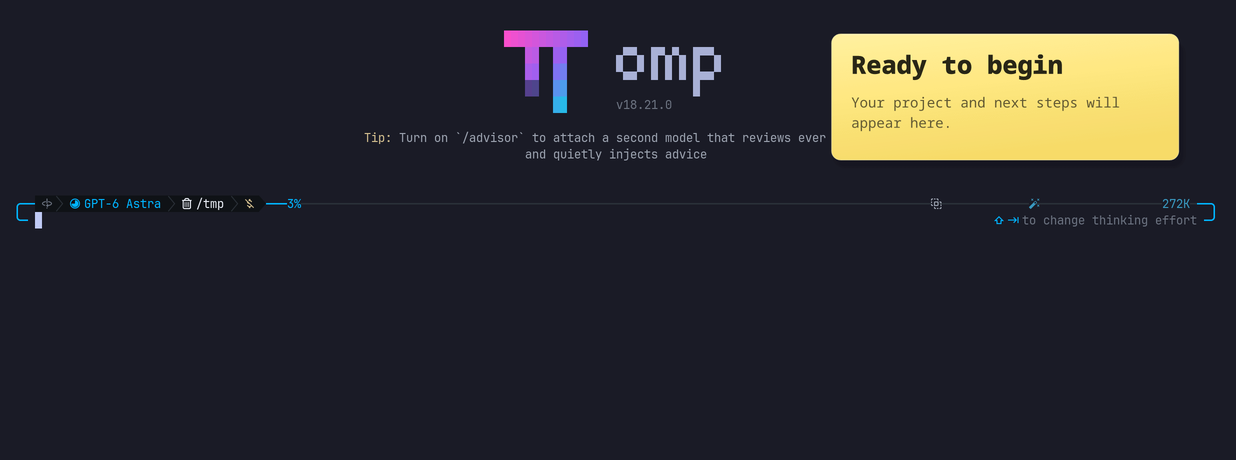
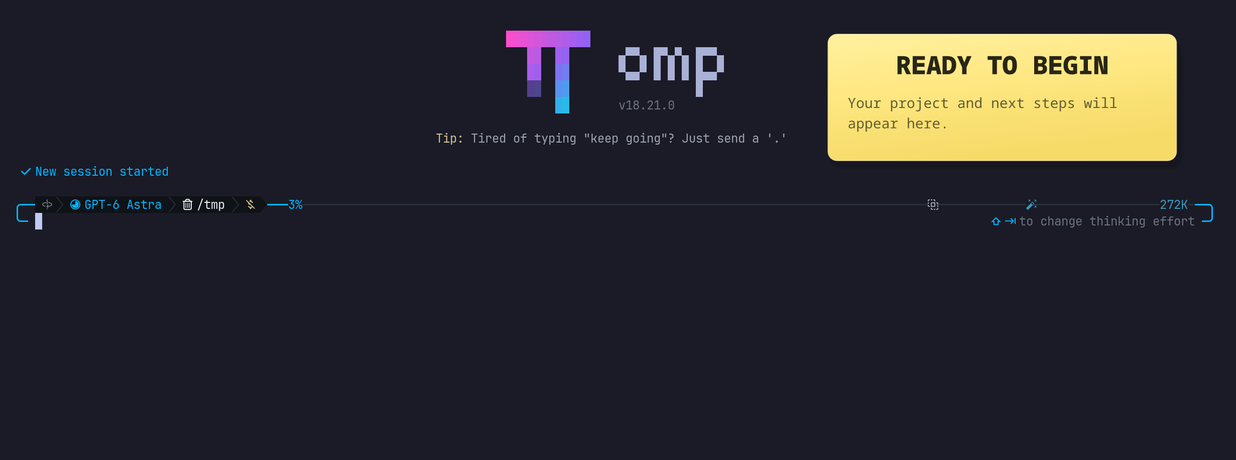
fix: center uppercase sticky note headlines
- Improve distance readability in native graphics and ANSI rendering without altering task layout.
- Cover headline casing and alignment in the host-backed rendering contract.
- Refresh screenshots and publish version 1.1.1.

diff --git a/test/fixtures/note-contract.ts b/test/fixtures/note-contract.ts
@@ -15,14 +15,18 @@ export default async function noteContract(pi: ExtensionAPI): Promise<void> {
   }
   note.update({ title: "Release dashboard", tasks: [{ text: "Verify checkout", done: false }] });
   let text = note.render(38).map(cleanLabel).join("\n");
-  assert.match(text, /Release dashboard/);
+  assert.match(text, /RELEASE DASHBOARD/);
+  const heading = note.render(38).find(row => row.includes("RELEASE DASHBOARD"));
+  assert.ok(heading);
+  const [before, after] = heading.split("RELEASE DASHBOARD");
+  assert.ok(Math.abs(visibleWidth(before) - visibleWidth(after)) <= 2, "Headline must be centered, allowing the one-column shadow");
   assert.match(text, /\[ \] Verify checkout/);
   note.update({ title: "Release dashboard", tasks: [{ text: "Verify checkout", done: true }] });
   text = note.render(38).map(cleanLabel).join("\n");
   assert.match(text, /\[x\] Verify checkout/);
   note.update({ title: "Release dashboard", tasks: [] });
   text = note.render(38).map(cleanLabel).join("\n");
-  assert.match(text, /Release dashboard/);
+  assert.match(text, /RELEASE DASHBOARD/);
   assert.doesNotMatch(text, /\[[ x]\]/, "Clearing tasks must restore the empty state, not a blank checkbox");
   note.dispose();
 

diff --git a/src/paper.ts b/src/paper.ts
@@ -27,8 +27,10 @@ export function paperSvg(note: Note): { svg: string; width: number; height: numb
   const text = (label: string, x: number, y: number, size: number, weight: number, color = "#292616") => {
     ink.push(`<text x="${x}" y="${y}" font-size="${size}" font-weight="${weight}" fill="${color}">${xml(label)}</text>`);
   };
-  const title = lines(note.title, 36, 436);
-  title.forEach((line, index) => text(line, 36, 62 + index * 44, 36, 800));
+  const title = lines(note.title.toUpperCase(), 36, 436);
+  ink.push('<g text-anchor="middle">');
+  title.forEach((line, index) => text(line, 256, 62 + index * 44, 36, 800));
+  ink.push("</g>");
   let y = 62 + (title.length - 1) * 44 + 48;
   if (note.tasks.length === 0) {
     const welcome = lines(WELCOME, 20, 436);

diff --git a/src/note.ts b/src/note.ts
@@ -223,7 +223,9 @@ export class StickyNote implements Component {
       ? PAPER + (top ? "╭" : "╰") + "─".repeat(cardWidth - 2) + (top ? "╮" : "╯") + RESET + " ".repeat(shadow)
       : row("");
     const rows = [edge(true)];
-    for (const line of wrapLabel(this.#note.title, 2, inner)) rows.push(row(line, true));
+    for (const line of wrapLabel(this.#note.title.toUpperCase(), 2, inner)) {
+      rows.push(row(" ".repeat(Math.max(0, Math.floor((inner - visibleWidth(line)) / 2))) + line, true));
+    }
     rows.push(row(""));
     if (this.#note.tasks.length === 0) {
       for (const line of wrapLabel(WELCOME, 2, inner)) rows.push(row(line));

diff --git a/README.md b/README.md
@@ -33,7 +33,8 @@ Remove it with `omp plugin uninstall omp-stickynote`, then restart OMP.
 ## How it works
 
 - **Automatic by default.** Uses the session title and follows the first three unfinished OMP todos in plan order. Once everything is complete, shows up to three completed tasks.
-- **A clean welcome.** Before a session title or tasks exist, shows **Ready to begin** and “Your project and next steps will appear here.” No working-directory name or automatic empty checkbox.
+- **A clean welcome.** Before a session title or tasks exist, shows **READY TO BEGIN** and “Your project and next steps will appear here.” No working-directory name or automatic empty checkbox.
+- **Readable at a glance.** Headlines are centered and displayed in all caps without changing the stored project title. Task checkboxes and labels stay left-aligned in their original case.
 - **Pinned to the live viewport.** Starts at the top-right and moves once to the top-center after actual transcript scrolling. A new session resets the position to the top-right.
 - **Keyboard stays yours.** No key capture, editor replacement, or extra prompt to dismiss.
 - **Session-local.** Manual notes and visibility are stored in OMP's session entries and restored on resume or branch navigation. Separate sessions do not share mutable note state. OMP controls persistence: a fresh session with no assistant turn may still be memory-only, and `--no-session` never saves it.

diff --git a/CHANGELOG.md b/CHANGELOG.md
@@ -1,5 +1,10 @@
 # Changelog
 
+## 1.1.1 — 2026-11-16
+
+- Center the headline and display it in all caps for better distance readability, in both native graphics and ANSI output.
+- Keep task checkbox alignment, label casing, typography, and spacing unchanged.
+
 ## 1.1.0 — 2026-11-16
 
 - Replace the automatic working-directory title and empty checkbox with **Ready to begin** and a short welcome until real session details arrive.
